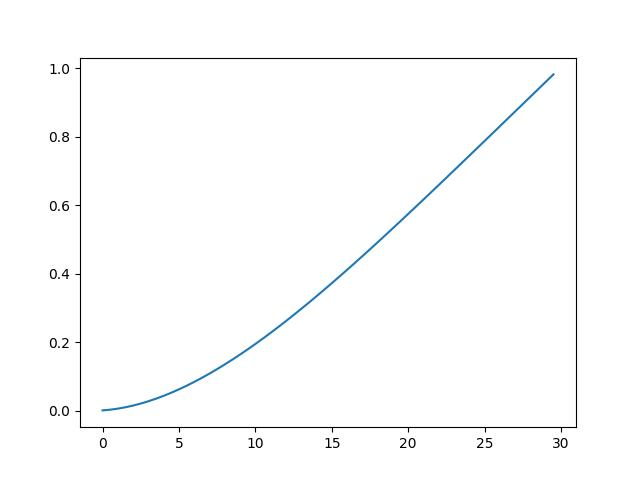
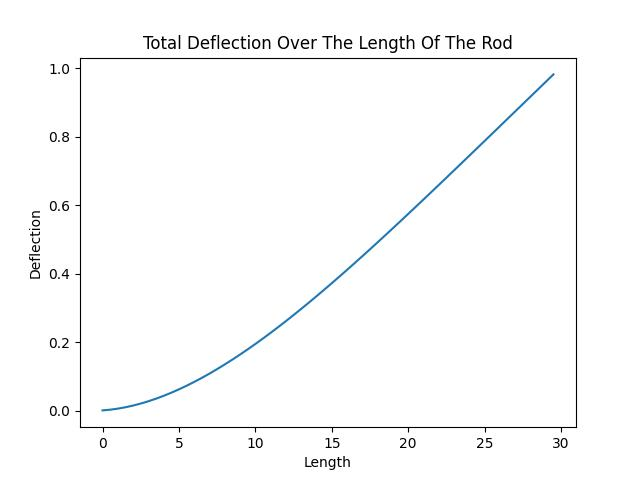
Complete before submission

Changed region(s): [[0.2188, 0.0625, 0.8125, 0.125], [0.0312, 0.4375, 0.0625, 0.5938], [0.4688, 0.9375, 0.5625, 1.0]]

diff --git a/Question-6/main.cpp b/Question-6/main.cpp
@@ -18,12 +18,15 @@ int main()
 {
     double a = -1., b = 0., tolerance = 0.00001, res;
     int count;
+    
     std::tie(res, count) = bisection(a, b, tolerance);
     cout << "Bisection Method Root = " << res << " \t"
          << "Iterations needed = " << count << endl;
+
     std::tie(res, count) = newton_raphson(a, tolerance);
     cout << "Newton-Raphson Method Root = " << res << " \t"
          << "Iterations needed = " << count << endl;
+
     std::tie(res, count) = secant(a, b, tolerance);
     cout << "Secant Method Root = " << res << " \t"
          << "Iterations needed = " << count << endl;

diff --git a/Question-4/main.cpp b/Question-4/main.cpp
@@ -38,7 +38,7 @@ double romberg(double t1, double t2, double tolerance)
             if (col == 0) // if in column 0 use multi trap
                 matrix[row][col] = multi_trap(t1, t2, n);
             else
-            { // use rombert formula
+            { // use romberg formula
                 matrix[row][col] = (x_next * matrix[row][col - 1] -
                                     matrix[row - 1][col - 1]) /
                                    (x_next - 1);

diff --git a/Question-5/plot.py b/Question-5/plot.py
@@ -5,5 +5,8 @@ with open("output.txt", "r") as file:
     data = [float(x) for x in lines]
 
 plt.plot(data)
+plt.title("Total Deflection Over The Length Of The Rod")
+plt.xlabel("Length")
+plt.ylabel("Deflection")
 plt.xticks([0, 10, 20, 30, 40, 50, 60],[0, 5, 10, 15, 20, 25, 30])
 plt.savefig("results.jpg")

diff --git a/Question-5/main.cpp b/Question-5/main.cpp
@@ -18,7 +18,7 @@ int main()
     std::ofstream outfile;
 
     /*
-        let x = dy/dz -> dx/dz = d^2y/d^2z
+        let x = dy/dz -> dx/dz = d^2y/dz^2
         Then run rk4 for x
         Use the datapoints derived to work out dx/dz
                                                         */
